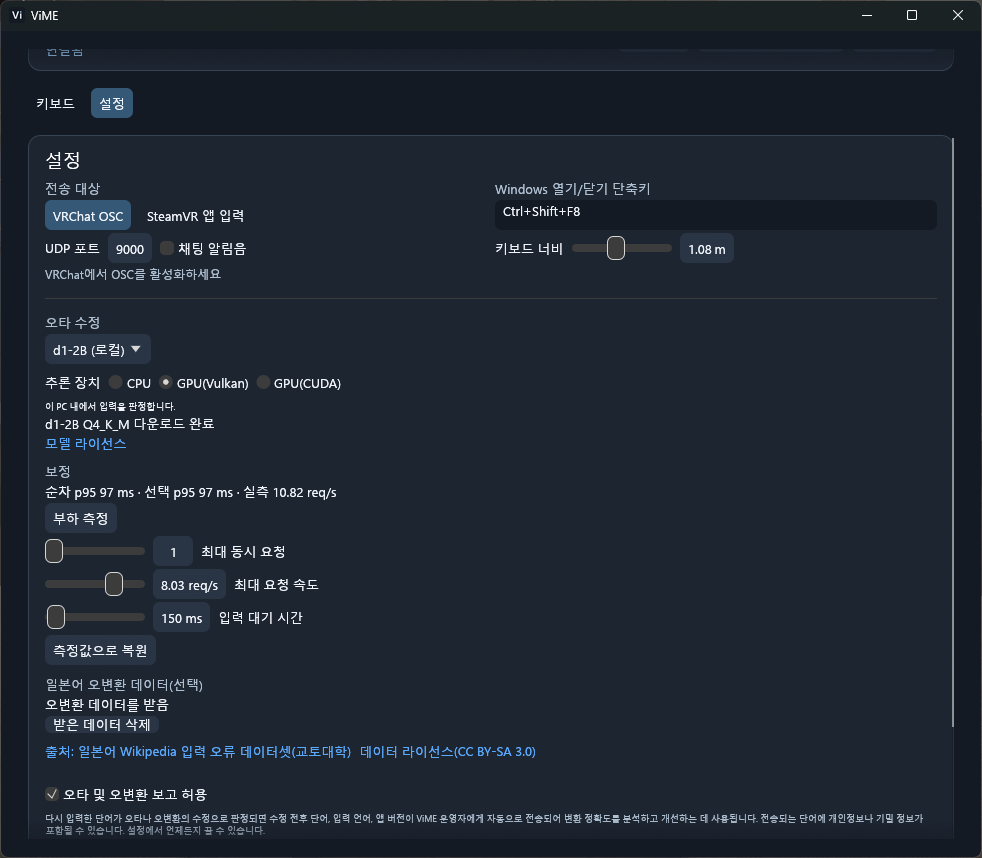
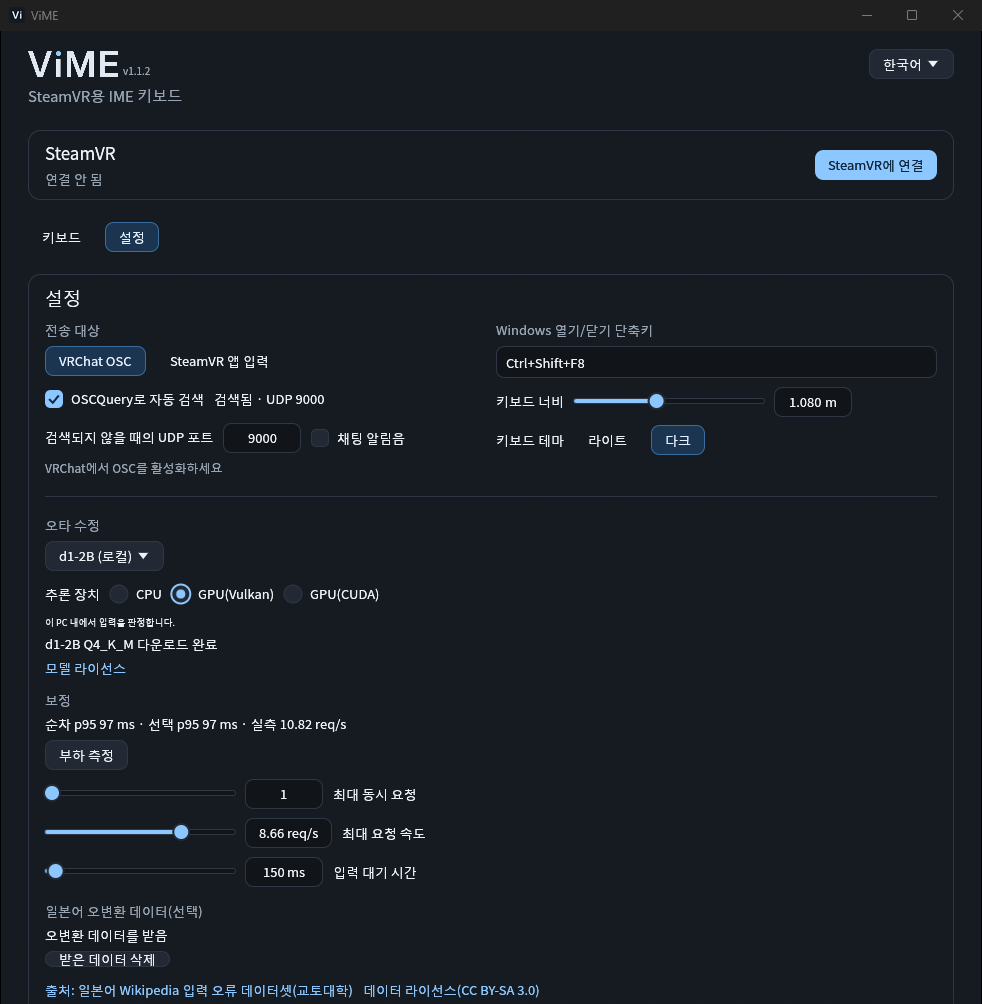
Release ViME v1.1.2

diff --git a/src/widgets.rs b/src/widgets.rs
@@ -73,8 +73,7 @@ pub fn checkbox(ui: &mut Ui, checked: &mut bool, text: impl Into<WidgetText>) ->
     let response = ui
         .horizontal(|ui| {
             ui.spacing_mut().item_spacing.x = 8.;
-            let (rect, mut response) =
-                ui.allocate_exact_size(vec2(BOX, BOX), Sense::click());
+            let (rect, mut response) = ui.allocate_exact_size(vec2(BOX, BOX), Sense::click());
             let label = ui.add(egui::Label::new(text).sense(Sense::click()));
             response |= label;
             if response.clicked() {
@@ -108,9 +107,8 @@ pub fn checkbox(ui: &mut Ui, checked: &mut bool, text: impl Into<WidgetText>) ->
         })
         .inner;
     let enabled = ui.is_enabled();
-    response.widget_info(|| {
-        egui::WidgetInfo::selected(egui::Role::CheckBox, enabled, *checked, "")
-    });
+    response
+        .widget_info(|| egui::WidgetInfo::selected(egui::Role::CheckBox, enabled, *checked, ""));
     response
 }
 
@@ -125,8 +123,7 @@ pub fn radio<T: PartialEq>(
     let mut response = ui
         .horizontal(|ui| {
             ui.spacing_mut().item_spacing.x = 8.;
-            let (rect, mut response) =
-                ui.allocate_exact_size(vec2(BOX, BOX), Sense::click());
+            let (rect, mut response) = ui.allocate_exact_size(vec2(BOX, BOX), Sense::click());
             let label = ui.add(egui::Label::new(text).sense(Sense::click()));
             response |= label;
             let tone = tone(ui, &response, false);
@@ -159,9 +156,8 @@ pub fn radio<T: PartialEq>(
         response.mark_changed();
     }
     let enabled = ui.is_enabled();
-    response.widget_info(|| {
-        egui::WidgetInfo::selected(egui::Role::RadioButton, enabled, selected, "")
-    });
+    response
+        .widget_info(|| egui::WidgetInfo::selected(egui::Role::RadioButton, enabled, selected, ""));
     response
 }
 
@@ -257,7 +253,9 @@ impl<N: Numeric> Widget for Slider<'_, N> {
             if let Some(pointer) = response.interact_pointer_pos()
                 && (response.dragged() || response.is_pointer_button_down_on())
             {
-                next = from_ratio(f64::from((pointer.x - area.left() - HANDLE_RADIUS) / travel));
+                next = from_ratio(f64::from(
+                    (pointer.x - area.left() - HANDLE_RADIUS) / travel,
+                ));
             }
             if response.has_focus() {
                 let step = if N::INTEGRAL {
@@ -310,13 +308,13 @@ impl<N: Numeric> Widget for Slider<'_, N> {
             if enabled && (response.hovered() || response.dragged()) {
                 painter.circle_filled(center, HANDLE_RADIUS + 5., accent.gamma_multiply(0.22));
             }
-            painter.circle(
-                center,
-                HANDLE_RADIUS,
-                accent,
-                Stroke::new(2., palette.key),
+            painter.circle(center, HANDLE_RADIUS, accent, Stroke::new(2., palette.key));
+            focus_ring(
+                ui,
+                &response,
+                Rect::from_center_size(center, vec2(14., 14.)),
+                7.,
             );
-            focus_ring(ui, &response, Rect::from_center_size(center, vec2(14., 14.)), 7.);
             if enabled && response.hovered() {
                 ui.ctx().set_cursor_icon(CursorIcon::PointingHand);
             }
@@ -350,7 +348,11 @@ pub fn number_field(ui: &mut Ui, field: DragValue<'_>) -> Response {
     let palette = Palette::of(ui.ctx());
     ui.scope(|ui| {
         let visuals = &mut ui.visuals_mut().widgets;
-        for state in [&mut visuals.inactive, &mut visuals.hovered, &mut visuals.active] {
+        for state in [
+            &mut visuals.inactive,
+            &mut visuals.hovered,
+            &mut visuals.active,
+        ] {
             state.weak_bg_fill = palette.input;
             state.bg_fill = palette.input;
         }
@@ -453,12 +455,28 @@ mod tests {
 
             click(&context, &mut state, check.left_center() + vec2(9., 0.));
             assert!(state.checked, "{theme:?} checkbox");
-            click(&context, &mut state, radio_rect.left_center() + vec2(9., 0.));
+            click(
+                &context,
+                &mut state,
+                radio_rect.left_center() + vec2(9., 0.),
+            );
             assert_eq!(state.device, 2, "{theme:?} radio");
-            click(&context, &mut state, pos2(slider.left() + 48., slider.center().y));
-            assert!(state.width > 0.65 && state.width < 1.65, "{theme:?} slider {}", state.width);
+            click(
+                &context,
+                &mut state,
+                pos2(slider.left() + 48., slider.center().y),
+            );
+            assert!(
+                state.width > 0.65 && state.width < 1.65,
+                "{theme:?} slider {}",
+                state.width
+            );
             let before = state.rate;
-            click(&context, &mut state, pos2(log.left() + 108., log.center().y));
+            click(
+                &context,
+                &mut state,
+                pos2(log.left() + 108., log.center().y),
+            );
             assert!(state.rate > before, "{theme:?} log slider {}", state.rate);
         }
     }

diff --git a/src/desktop.rs b/src/desktop.rs
@@ -3,13 +3,13 @@ use crate::{
     hotkeys::Hotkeys,
     keyboard::{self, Action, CalibrationJob, Keyboard, Repeater, VrKeys, palette::Palette},
     overlay_surface::OverlaySurface,
-    widgets,
     power,
     tray::Tray,
+    widgets,
 };
 use eframe::egui::{
-    self, Align, Button, FontData, FontDefinitions, FontFamily, Frame, Layout, Margin,
-    RichText, ScrollArea, Stroke, Ui, ViewportBuilder,
+    self, Align, Button, FontData, FontDefinitions, FontFamily, Frame, Layout, Margin, RichText,
+    ScrollArea, Stroke, Ui, ViewportBuilder,
 };
 use std::{
     collections::HashMap,
@@ -846,7 +846,11 @@ impl App {
             );
             ui.add_space(5.);
             if self.settings_error {
-                ui.label(RichText::new(&self.settings_message).small().color(ui.visuals().error_fg_color));
+                ui.label(
+                    RichText::new(&self.settings_message)
+                        .small()
+                        .color(ui.visuals().error_fg_color),
+                );
                 // Another app may hold the shortcut, and Settings is out of reach here.
                 ui.label(tr("Windows 開閉ショートカット"));
                 ui.add(
@@ -1033,7 +1037,10 @@ impl App {
             );
             ui.horizontal_wrapped(|ui| {
                 ui.label(dashboard::osc_port_label(&self.draft));
-                widgets::number_field(ui, egui::DragValue::new(&mut self.draft.osc_port).range(1..=65535));
+                widgets::number_field(
+                    ui,
+                    egui::DragValue::new(&mut self.draft.osc_port).range(1..=65535),
+                );
                 widgets::checkbox(ui, &mut self.draft.osc_notify, tr("チャット通知音"));
             });
             tr("VRChat側でOSCを有効にしてください")

diff --git a/src/keyboard/view.rs b/src/keyboard/view.rs
@@ -214,7 +214,10 @@ impl Board<'_> {
         );
         self.label(
             Rect::from_min_max(
-                Pos2::new(logo.right() + 6. * self.scale, logo.bottom() - 18. * self.scale),
+                Pos2::new(
+                    logo.right() + 6. * self.scale,
+                    logo.bottom() - 18. * self.scale,
+                ),
                 Pos2::new(logo.right() + 60. * self.scale, logo.bottom()),
             ),
             Align2::LEFT_CENTER,
@@ -275,7 +278,10 @@ impl Board<'_> {
             for index in 0..8 {
                 let direction = Vec2::angled(index as f32 * std::f32::consts::FRAC_PI_4);
                 painter.line_segment(
-                    [center + direction * 8.5 * unit, center + direction * 11. * unit],
+                    [
+                        center + direction * 8.5 * unit,
+                        center + direction * 11. * unit,
+                    ],
                     Stroke::new(2. * unit, ink),
                 );
             }

diff --git a/src/dashboard.rs b/src/dashboard.rs
@@ -313,7 +313,11 @@ pub fn choice<T: PartialEq>(
 /// The accent-colored button for the main action of a page.
 pub fn primary<'a>(context: &Context, label: &str) -> Button<'a> {
     let palette = Palette::of(context);
-    Button::new(RichText::new(label.to_owned()).color(palette.on_accent).strong())
-        .fill(palette.accent)
-        .stroke(Stroke::NONE)
+    Button::new(
+        RichText::new(label.to_owned())
+            .color(palette.on_accent)
+            .strong(),
+    )
+    .fill(palette.accent)
+    .stroke(Stroke::NONE)
 }

diff --git a/src/overlay_surface.rs b/src/overlay_surface.rs
@@ -1,3 +1,4 @@
+use crate::keyboard::palette::Palette;
 use eframe::{
     egui::{self, Event, FontDefinitions, Pos2, RawInput, Rect, Ui, Vec2},
     glow::{self, HasContext},
@@ -7,7 +8,6 @@ use std::{
     sync::Arc,
     time::{Duration, Instant},
 };
-use crate::keyboard::palette::Palette;
 use vime::i18n::tr;
 
 const RETRY_DELAY: Duration = Duration::from_millis(250);

diff --git a/README.md b/README.md
@@ -8,12 +8,12 @@ ViME is an open-source IME keyboard for SteamVR on Windows. Type in Japanese, En
 
 [English](README.md) · [日本語](README.ja.md) · [한국어](README.ko.md)
 
-![ViME in VR with a Japanese greeting in the text field, language tabs at the top, and a smiley button at the bottom left.](assets/vr-keyboard.png)
+![ViME in VR with a Japanese greeting in the text field. Language tabs and a theme switch are at the top, send, copy, and paste buttons sit beside the text field, and a smiley button is at the bottom left.](assets/vr-keyboard.png)
 
 <details>
 <summary>Windows keyboard preview</summary>
 
-![English QWERTY keyboard preview in the Windows app, connected to SteamVR.](assets/readme/windows-keyboard-en.png)
+![English QWERTY keyboard preview in the Windows app, before connecting to SteamVR.](assets/readme/windows-keyboard-en.png)
 
 </details>
 
@@ -37,28 +37,32 @@ Release builds check GitHub Releases for updates at startup. Once an update is r
 1. Run ViME and connect it to SteamVR once to register the overlay.
 2. In SteamVR, open **Settings → Startup / Shutdown → Choose Startup Overlay Apps** and turn on **ViME**. When SteamVR starts it, ViME runs in the Windows system tray with its window hidden.
 
-Closing the ViME window also keeps ViME running in the tray, so you can keep using the VR keyboard. Click the tray icon or right-click it and choose **Open window** to reopen the Windows app. To quit, right-click the icon and choose **Exit ViME**.
+Closing the ViME window also keeps ViME running in the tray, so you can keep using the VR keyboard. Click the tray icon or right-click it and choose **Open window** to reopen the Windows app. To quit, right-click the icon and choose **Exit ViME**. If ViME is already running, starting it again from the Start menu brings the existing window to the front instead of opening a second copy.
 
 ## Send a message to VRChat
 
 1. In the VRChat Action Menu, turn on **OSC → Enabled**. Keep ViME’s destination set to **VRChat OSC**.
 2. Click the **right thumbstick** (**right trackpad** on Vive Wand) or press **Ctrl+Shift+F8** on your PC to open the keyboard. Point either controller at a key and press the trigger to type.
-3. Type a message and press **Enter** on the VR keyboard to send it to the Chatbox. While converting text, the first **Enter** confirms your text. Press it again to send.
+3. Type a message and press **Enter** or the send button on the VR keyboard to send it to the Chatbox. While converting text, the first **Enter** confirms your text. Press it again to send.
 
-The left and right pointers render independently and update in sync with SteamVR frames, so they can track your controllers between keyboard redraws.
+Next to the text field, **×** clears the text, and the copy and paste buttons use the Windows clipboard. Paste is refused if the result would exceed VRChat’s 144-character limit. The sun and moon button in the keyboard header switches between the dark and light themes.
+
+The left and right pointers render independently and update in sync with SteamVR frames, so they can track your controllers between keyboard redraws. The keyboard is drawn at a higher pixel density for sharper text.
 
 **Discover via OSCQuery** finds VRChat’s receiving UDP port on the same PC. It is on by default for new configurations. If you are upgrading with saved v1.0.0 settings, enable it in **Settings** and save. ViME uses the configured UDP port (`9000` by default) while discovery is off or no port is detected. [Official VRChat OSCQuery guide](https://docs.vrchat.com/docs/oscquery)
 
 The **ViME** tab in the SteamVR dashboard gives you access to the keyboard, output settings, and controller bindings.
 
-In the Windows app’s **Settings**, you can change the OSC notification sound, toggle shortcut, and VR keyboard width. Settings are stored at `%LOCALAPPDATA%\ViME\settings.json`.
+In the Windows app’s **Settings**, you can change the OSC notification sound, toggle shortcut, VR keyboard width, and keyboard theme (**Dark** or **Light**). The theme applies to the VR keyboard and the Windows app. Settings are stored at `%LOCALAPPDATA%\ViME\settings.json`.
+
+ViME uses Noto Sans JP when it is installed on Windows. Otherwise it falls back to Segoe UI and the Windows Japanese and Korean system fonts.
 
 ## Switch languages and convert text
 
 - **Japanese** uses a JIS layout with romaji input. Use the space bar to open conversion candidates for kanji and katakana. Digits and Latin letters stay half-width, while punctuation is full-width by default, including Japanese `、` and `。`. Pick half-width punctuation or katakana from the candidates. The **半/全** key switches to direct half-width input.
 - **English** uses QWERTY. **Korean** uses Dubeolsik, with **한/영** to switch to direct Latin input.
 - Open the emoji, kaomoji, and symbol palette with **😃** at the bottom left. In English mode, you can also look up emoji with shortcodes such as `:cat:`.
-- In unconfirmed Japanese input, **Backspace** removes one displayed character at a time, so `きゃ` becomes `き`. Hold **Backspace** or **Space** to repeat the action. Key presses play a click sound.
+- In unconfirmed Japanese input, **Backspace** removes one displayed character at a time, so `きゃ` becomes `き`. Unfinished romaji stays editable after **Backspace**, so you can correct a mistyped letter and finish the syllable. Spellings such as `kyi`, `swa`, `tsa`, `fwa`, `qa`, and `xn` are supported. Hold **Backspace** or **Space** to repeat the action. Key presses play a click sound.
 
 ![The Japanese candidate bar offers both full-width パーティー and half-width ﾊﾟｰﾃｨｰ.](assets/vr-conversion.png)
 
@@ -78,7 +82,7 @@ If you previously set the rate manually, select **Use measured limits** for each
 
 Read the **Max request rate** field below the **Measure server load** button. The **measured** req/s value above the button is the throughput observed during the test.
 
-![English calibration screen with GPU (Vulkan) selected. The Max request rate field is below the Measure server load button.](assets/readme/windows-calibration-en.png)
+![English Settings screen with GPU (Vulkan) selected. The Max request rate field is below the Measure server load button.](assets/readme/windows-calibration-en.png)
 
 ### APIs and reporting
 
@@ -116,4 +120,4 @@ The executable is built at `target/release/vime.exe`. See the [contribution guid
 
 ViME contains no copy of the Japanese Wikipedia Typo Dataset. If you press **Download** under *Japanese misconversion data* in the settings, ViME fetches [JWTD v2](https://nlp.ist.i.kyoto-u.ac.jp/EN/index.php?JWTD) (Kyoto University Language Media Processing Lab, [CC BY-SA 3.0](https://creativecommons.org/licenses/by-sa/3.0/)) directly from Kyoto University and counts which kanji words editors corrected. Only that table of words is kept, in `%LOCALAPPDATA%\ViME\misconversions.tsv`; it is not shared and stays under CC BY-SA 3.0. Tanaka, Murawaki, Kawahara, and Kurohashi, NLP 2021. [JWTD v2 paper](https://www.anlp.jp/proceedings/annual_meeting/2021/pdf_dir/E8-3.pdf)
 
-Key sounds come from unicaegames’ [Keyboard Soundpack #1](https://opengameart.org/node/122745) ([CC0 1.0](https://creativecommons.org/publicdomain/zero/1.0/)). Local inference uses [llama.cpp](https://github.com/ggml-org/llama.cpp) and [Liquid AI’s d1-2B Q4_K_M](https://huggingface.co/LiquidAI/d1-2B-GGUF).
+Key sounds come from unicaegames’ [Keyboard Soundpack #1](https://opengameart.org/node/122745) ([CC0 1.0](https://creativecommons.org/publicdomain/zero/1.0/)). Keyboard icons are from Google’s [Material Icons](https://mui.com/material-ui/material-icons/) by way of MUI ([Apache License 2.0](LICENSE)). Local inference uses [llama.cpp](https://github.com/ggml-org/llama.cpp) and [Liquid AI’s d1-2B Q4_K_M](https://huggingface.co/LiquidAI/d1-2B-GGUF).

diff --git a/.github/release-notes/v1.1.2.md b/.github/release-notes/v1.1.2.md
@@ -1,0 +1,49 @@
+ViME v1.1.2 gives the VR keyboard, the Windows app, and the SteamVR dashboard a flat design with dark and light themes. The keyboard also gains send, copy, and paste buttons, sharper text in VR, and more flexible Japanese romaji input.
+
+## What's new
+
+- **Flat design with dark and light themes** — The VR keyboard, the Windows app, and the SteamVR dashboard share one flat look with custom controls. The keyboard header shows the ViME wordmark with the current version. Press the sun or moon button to switch between the dark and light themes, or choose **Settings → Keyboard theme**. Your choice is saved right away. Dark is the default.
+- **Send, copy, and paste buttons** — Press the send button to send a message to VRChat without reaching for **Enter**. **×** clears the text. Copy and paste use the Windows clipboard, and paste is refused if the result would exceed VRChat's 144-character limit.
+- **Sharper VR keyboard** — The keyboard overlay is rendered at a higher pixel density, so text and icons stay crisp in the headset.
+- **Noto Sans JP** — When Noto Sans JP is installed, ViME uses its Regular weight for both Japanese and Latin text. Otherwise it falls back to Segoe UI and the Windows Japanese and Korean system fonts.
+- **One ViME at a time** — Starting ViME while it is already running brings the existing window to the front instead of opening a second copy.
+
+## Improvements and fixes
+
+- **Romaji stays editable after Backspace** — After a mistyped letter in unfinished Japanese input, press **Backspace** and finish the syllable instead of starting over.
+- **More kana spellings** — Added spellings such as `kyi`, `kye`, `swa`, `tsa`, `tha`, `twa`, `fwa`, `qa`, `yi`, `ye`, `wu`, and `xn`.
+- **Correct JIS Enter key shape** — Fixed the step of the L-shaped Enter key on the Japanese JIS layout.
+- **Updated README and screenshots** — The README, in all three languages, and its screenshots now show the new design, the new controls, and the Settings screen.
+
+## Installing and updating
+
+- For a new installation, download `ViME-1.1.2-windows-x64.msi`. After setup, open **ViME** from the Start menu.
+- To update an existing installation, open **Settings → Restart to update** in ViME. If you exit from the system tray, the update is applied when you quit.
+
+[All changes since v1.1.1](https://github.com/Harukoto-Project/vime/compare/v1.1.1...v1.1.2)
+
+---
+
+ViME v1.1.2 では、VR キーボード、Windows 版アプリ、SteamVR ダッシュボードをフラットなデザインに刷新し、ダークとライトのテーマを選べるようにしました。キーボードには送信・コピー・貼り付けのボタンを追加し、VR での文字がよりくっきり表示されるようになり、日本語のローマ字入力も柔軟になりました。
+
+## 新機能
+
+- **フラットデザインとダーク／ライトテーマ** — VR キーボード、Windows 版アプリ、SteamVR ダッシュボードで、統一したフラットな見た目と専用のコントロールを使います。キーボード上部には、ViME のロゴとバージョンが表示されます。太陽・月のボタンか **設定 → キーボードのテーマ** で、ダークとライトを切り替えられます。選択はすぐに保存されます。既定はダークです。
+- **送信・コピー・貼り付けボタン** — 送信ボタンで **Enter** を押さずに VRChat へメッセージを送れます。**×** で入力した文字を消去できます。コピーと貼り付けは Windows のクリップボードを使い、貼り付け後に VRChat の上限である144文字を超える場合は貼り付けられません。
+- **VR キーボードの表示をくっきりに** — キーボードのオーバーレイを高い画素密度で描画し、ヘッドセット内でも文字とアイコンが鮮明に見えます。
+- **Noto Sans JP に対応** — Noto Sans JP がインストールされている場合は、日本語と英数字の両方に Regular ウェイトを使います。ない場合は Segoe UI と、Windows の日本語・韓国語のシステムフォントで代替します。
+- **ViME は同時に1つだけ** — ViME が起動中にもう一度起動すると、2つ目は開かず、起動中のウィンドウが前面に表示されます。
+
+## 改善と修正
+
+- **Backspace のあともローマ字を編集可能** — 日本語の未確定入力で打ち間違えたときは、**Backspace** で直して同じ音を入力し直せます。
+- **かなの綴りを追加** — `kyi`、`kye`、`swa`、`tsa`、`tha`、`twa`、`fwa`、`qa`、`yi`、`ye`、`wu`、`xn` などに対応しました。
+- **JIS 配列の Enter キーの形を修正** — 日本語 JIS 配列の L 字型 Enter キーの段差を正しく描画します。
+- **README とスクリーンショットを更新** — 3 言語の README とスクリーンショットを、新しいデザイン、新しいコントロール、設定画面に合わせて更新しました。
+
+## インストールと更新
+
+- 新規インストールには `ViME-1.1.2-windows-x64.msi` を使い、セットアップ後はスタートメニューから **ViME** を開いてください。
+- 既存のインストールを更新するには、ViME の **設定 → 再起動して更新** を選びます。通知領域から終了した場合は、終了時に更新が適用されます。
+
+[v1.1.1 からのすべての変更](https://github.com/Harukoto-Project/vime/compare/v1.1.1...v1.1.2)
